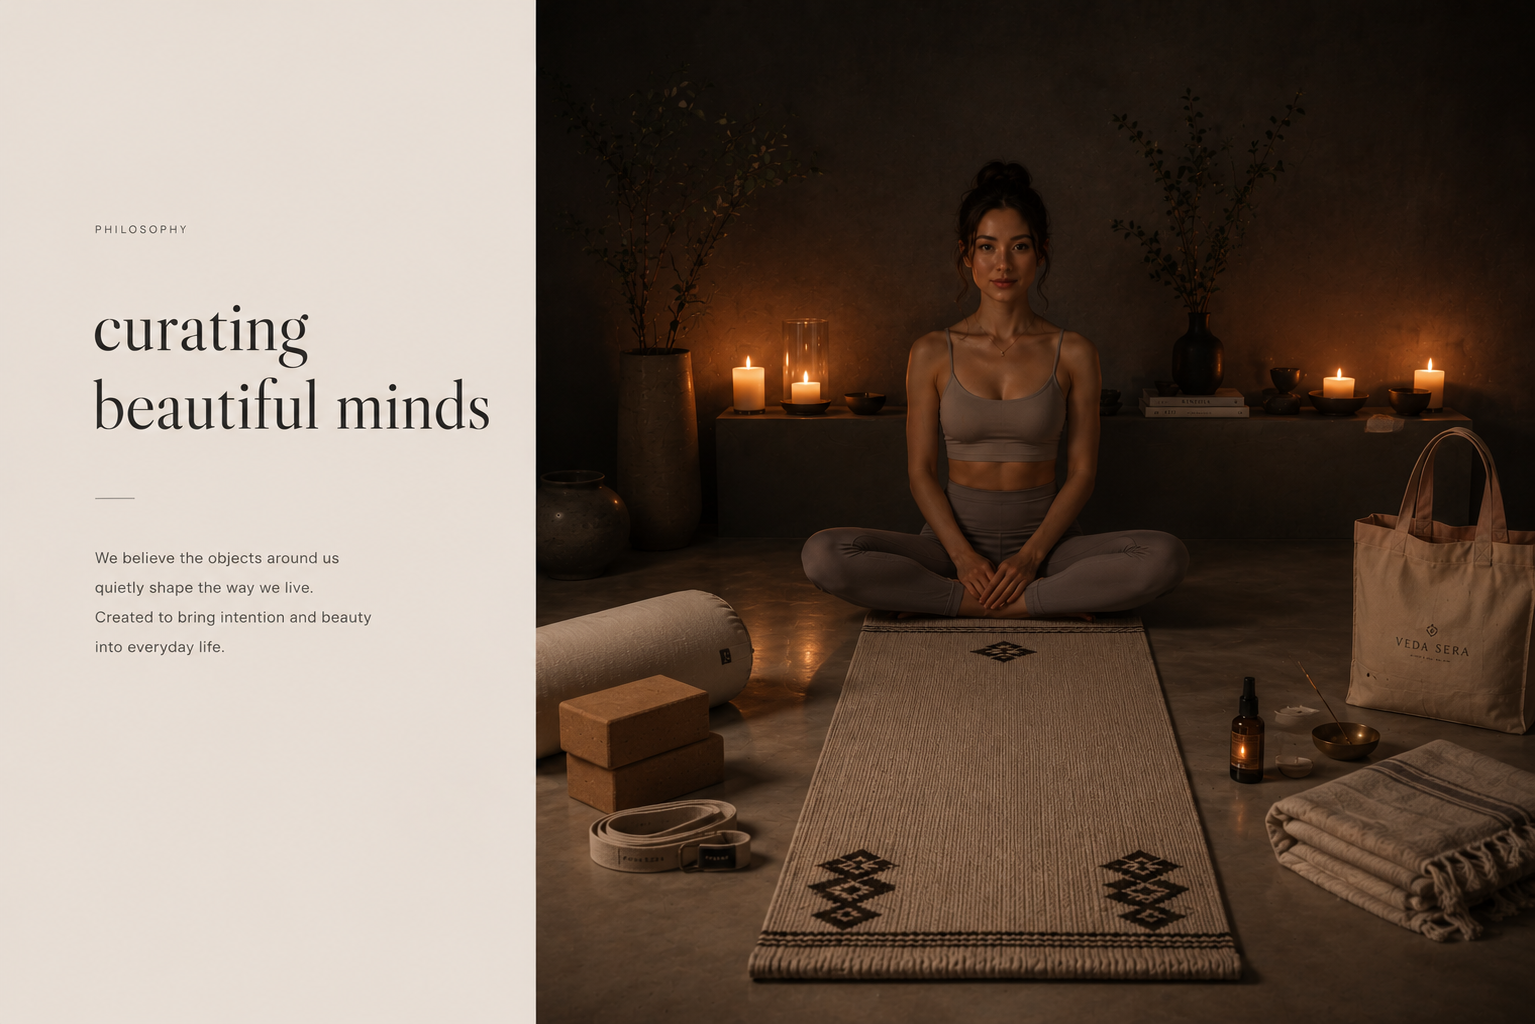
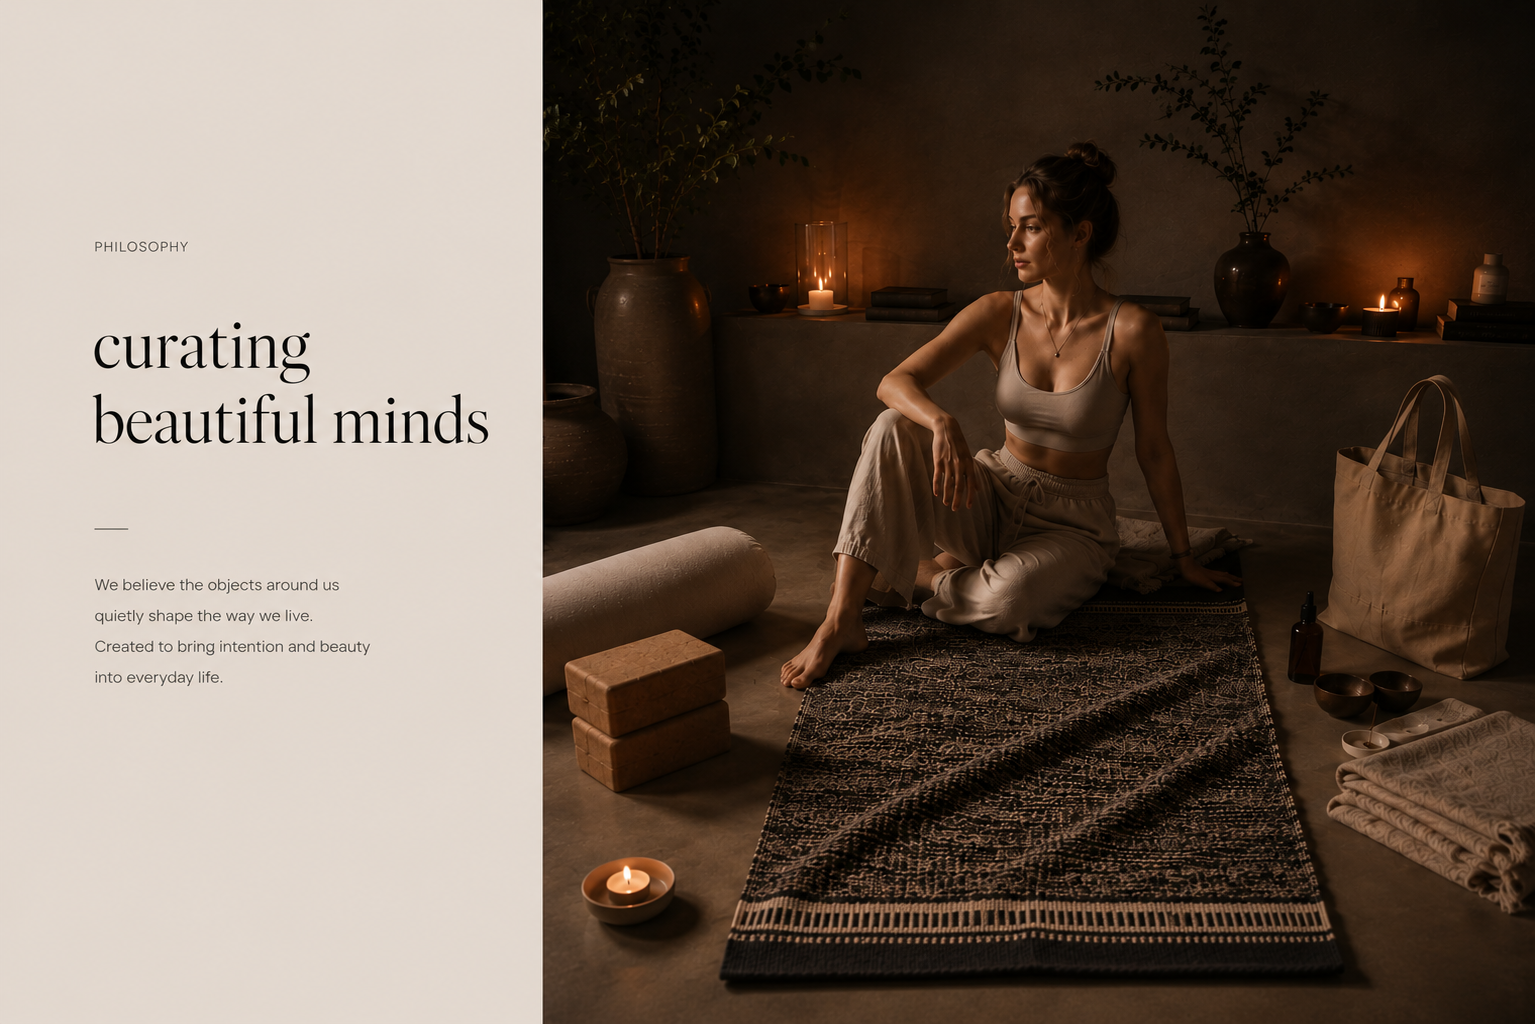
Add files via upload

diff --git a/index.html b/index.html
@@ -30,11 +30,12 @@
     <img src="assets/hero.png" alt="VEDA SERA — curating beautiful minds">
   </section>
 
-  <section class="statement" id="story">
-    <h1>Objects for movement,<br><em>rest,</em><br>and the rituals in between.</h1>
+  <span id="story" class="anchor-target" aria-hidden="true"></span>
+  <section class="philosophy-final philosophy-at-story" id="philosophy" aria-label="VEDA SERA philosophy">
+    <img src="assets/philosophy-final.png" alt="PHILOSOPHY — curating beautiful minds. We believe the objects around us quietly shape the way we live. Created to bring intention and beauty into everyday life.">
   </section>
 
-  <section class="split" id="mat">
+<section class="split" id="mat">
     <div class="media"><img src="assets/product.jpg" alt="VEDA SERA Handwoven Cotton Yoga Mat"></div>
     <div class="copy">
       <p class="eyebrow">THE HANDWOVEN COTTON YOGA MAT</p>
@@ -82,10 +83,6 @@
 <a class="final final-fused" href="https://smartstore.naver.com/vedasera" target="_blank" rel="noopener noreferrer" aria-label="Shop VEDA SERA">
     <img src="assets/final.jpg" alt="Made to live with — Shop the collection">
   </a>
-
-  <section class="philosophy-final" id="philosophy" aria-label="VEDA SERA philosophy">
-    <img src="assets/philosophy-final.png" alt="VEDA SERA — curating beautiful minds. We believe the objects around us quietly shape the way we live.">
-  </section>
 </main>
 
 <footer>

diff --git a/style.css b/style.css
@@ -281,3 +281,29 @@ footer{padding:6vw 5vw 3vw;background:var(--paper);border-top:1px solid var(--li
     line-height:1.02 !important;
   }
 }
+
+
+/* Philosophy artwork replaces the former statement section. */
+.anchor-target{
+  display:block;
+  position:relative;
+  top:0;
+}
+.philosophy-at-story{
+  width:100%;
+  margin:0;
+  padding:0;
+  line-height:0;
+  background:#eee6de;
+  border:0;
+  outline:0;
+}
+.philosophy-at-story img{
+  display:block;
+  width:100%;
+  height:auto;
+  margin:0;
+  padding:0;
+  border:0;
+  outline:0;
+}

diff --git a/README.md b/README.md
@@ -1,17 +1,14 @@
-# VEDA SERA v7.6 — Luxury Statement Typography
+# VEDA SERA — Philosophy in Former Statement Slot
 
-Keeps all v7.5 content and layout.
+Base: VEDA_SERA_GitHub_v7_6_LUXURY_TYPE(2)
 
-Updated only the statement:
-"Objects for movement, rest, and the rituals in between."
-
-Changes:
-- Reduced headline scale by roughly 25–30%.
-- Switched the statement font to Bodoni Moda for a more refined fashion-editorial feel.
-- Kept `rest,` italic.
-- Increased surrounding whitespace and softened letter spacing.
-- Mobile scale is also reduced for a calmer, more premium look.
+Only requested changes:
+- Completely removed the “Objects for movement, rest, and the rituals in between.” section.
+- Placed the exact uploaded `Brand Philosophy(1).png` in that same position.
+- Removed the duplicate Philosophy section from the bottom of the page.
+- All other sections, images, order, fonts, colors, links, and styling are left as in the supplied base package.
+- Existing GitHub CNAME should remain unchanged; this package intentionally does not include a CNAME file.
 
 GitHub upload:
-Replace index.html, style.css, script.js, and assets/.
-Keep the existing CNAME unchanged.
+Replace `index.html`, `style.css`, `script.js`, and `assets/`.
+Do not delete or replace your current `CNAME`.
